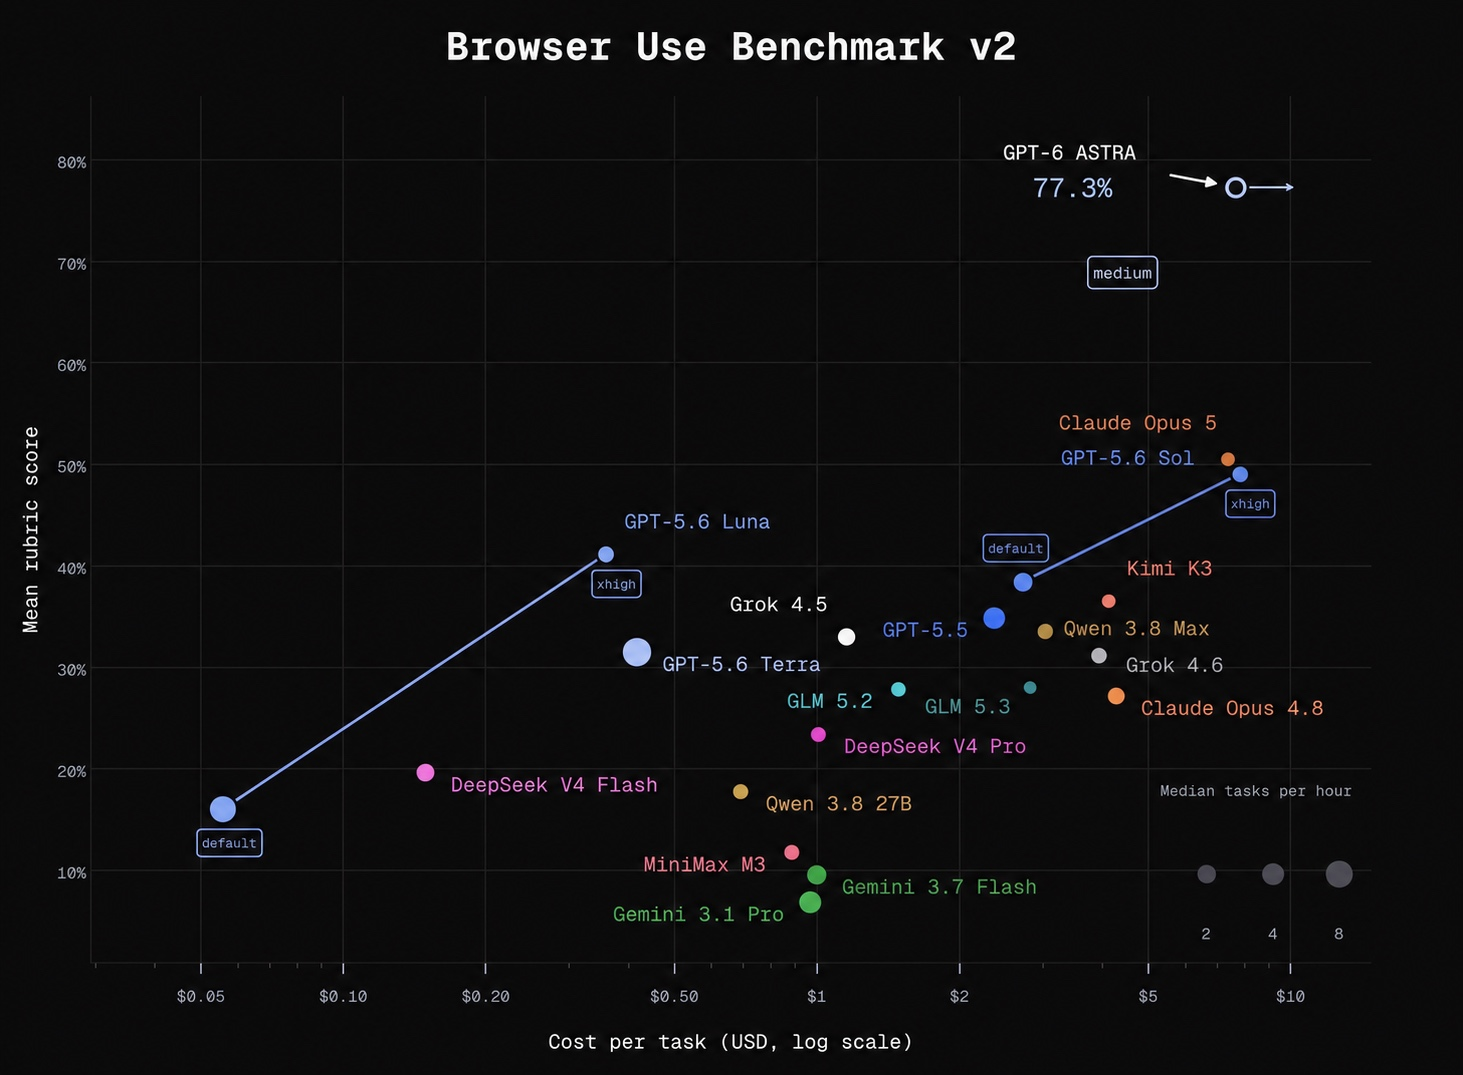
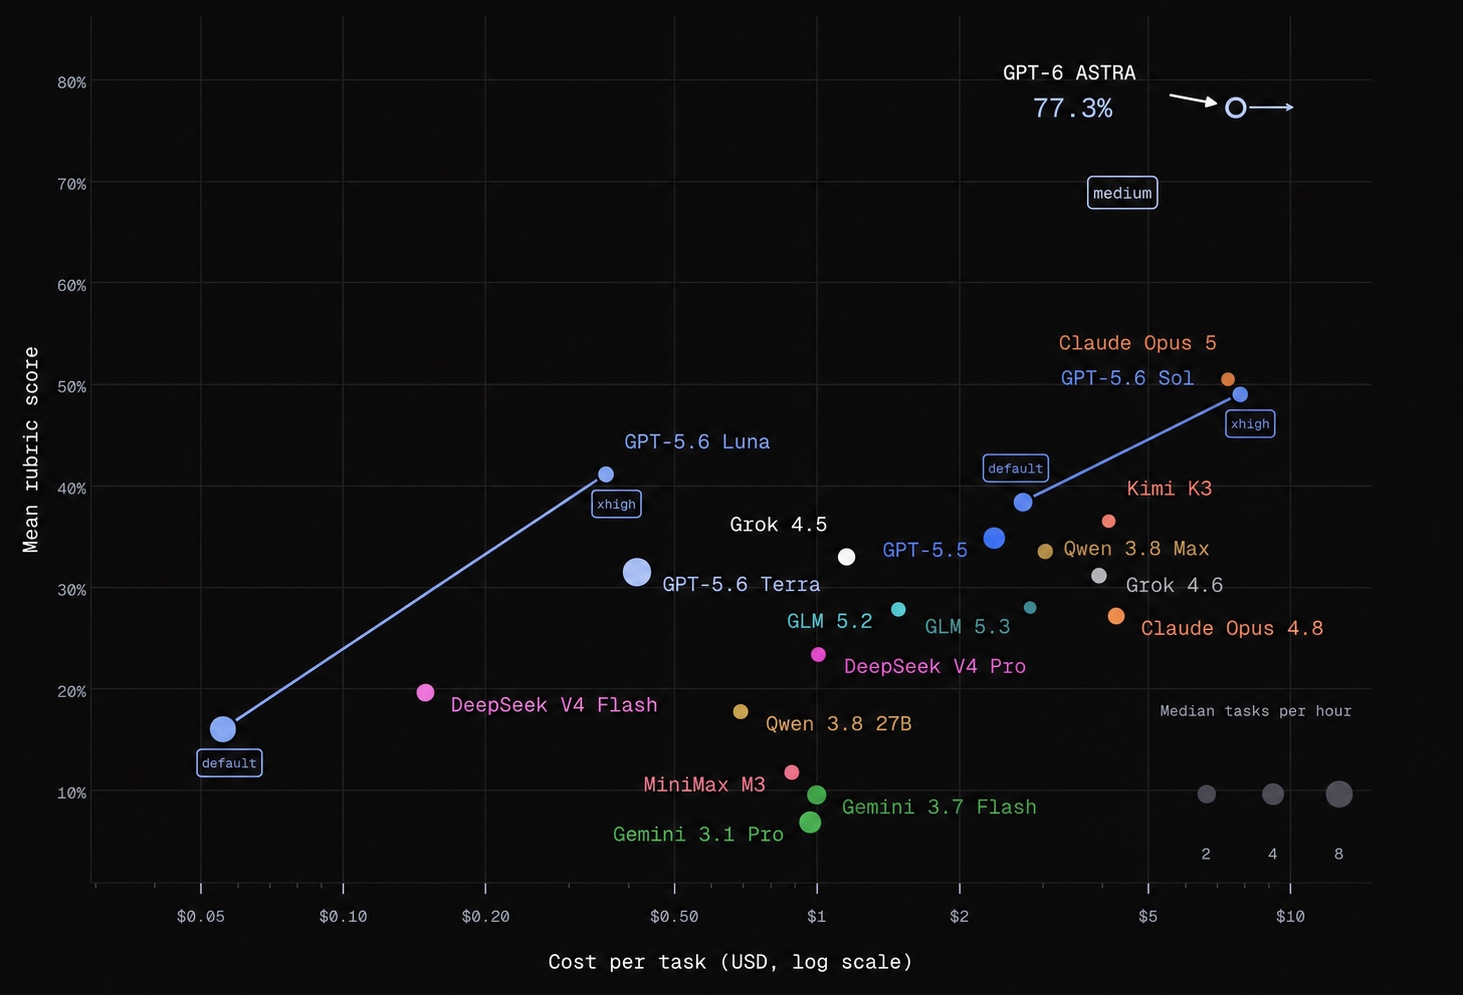
docs: move benchmark title out of plot and link JS harness

diff --git a/README.md b/README.md
@@ -151,7 +151,7 @@ The agent opens a browser, looks up the repository, and prints its answer.
 
 <br/>
 
-# Benchmark
+# Browser Use Benchmark v2
 
 <img alt="Browser Use Benchmark v2 - Mean rubric score by model and cost per task" src="static/hard_benchmark_v2.jpg" width="100%">
 
@@ -285,6 +285,7 @@ You can also host the Python library and browsers on your own infrastructure.
 | Repository | What it's for |
 | --- | --- |
 | [Browser Harness](https://github.com/browser-use/browser-harness) | Our CLI for giving AI agents control of your browser. |
+| [Browser Harness JS](https://github.com/browser-use/browser-harness-js) | Give your JavaScript agent control of a real browser. |
 | [Browser Use Pi](https://github.com/browser-use/browser-use-pi) | Run a TypeScript browser agent built on Pi. |
 | [Cloud SDK](https://github.com/browser-use/sdk) | Integrate Browser Use Cloud into your application. |
 | [Video Use](https://github.com/browser-use/video-use) | Edit videos with your coding agent. |

diff --git a/static/readme/README.md b/static/readme/README.md
@@ -25,6 +25,13 @@ Keep the light and dark SVGs structurally identical when changing the diagram.
 The SDK source remains the reference for the hosted stack; this README adds the
 Python-library path and omits the Playwright branch.
 
+## Benchmark plot
+
+`../hard_benchmark_v2.jpg` is a lossless crop of the
+[original plot](https://github.com/browser-use/browser-use/blob/f5f58c6ef4e6b95728f8b304015bb29f00bddd69/static/hard_benchmark_v2.jpg).
+Only the top 80 pixels containing the title were removed; all retained pixels
+are unchanged. The title appears as a README heading instead.
+
 ## Driving-test demo
 
 The inline GIF is converted from [Johannes Dittrich's public driving-test video](https://x.com/mathisdittrich/status/2078619618265141560).
